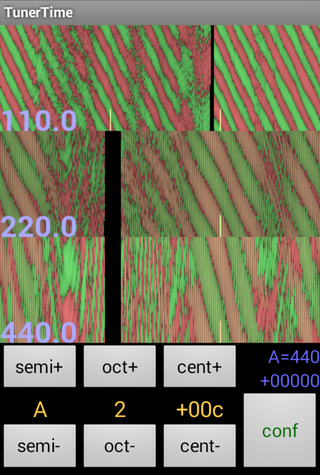
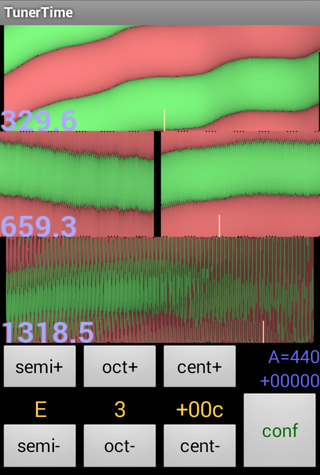
new screenshots...

diff --git a/docs/index.html b/docs/index.html
@@ -142,17 +142,18 @@ of tune.</p>
 left you can adjust the semi-tone ("note").  In the middle you can adjust
 the octave (middle C is in octave 3).  Finally, you can fine-tune the
 cents (100 cents per each semi-tone step).  It is rarely useful to adjust
-the cents, unless you are trying to determine the frequency of something
-you are not tuning.</p>
+the cents, unless you are trying to determine the frequency of
+something.</p>
 
 <p>Note that TunerTime uses the mathematically simple equally tempered
 scale, which is generally the modern standard but you may desire
 something different.</p>
 
-<p>The blue text in the lower right provides the A frequency that was
-chosen as the base of the scale (usually 440Hz, but some people tune to a
-different base), and the stretch factor which controls how large an
-octave is.  The stretch factor will get its own discussion later on.</p>
+<p>The blue text in the lower right provides the "middle A" frequency
+that was chosen as the basis of the scale (usually 440Hz, but some people
+tune to a different basis), and the stretch factor which controls how
+large an octave is.  The stretch factor will get its own discussion later
+on.</p>
 
 <p>Finally, the "conf" button in the lower-right corner changes to the
 configuration screen.</p>
